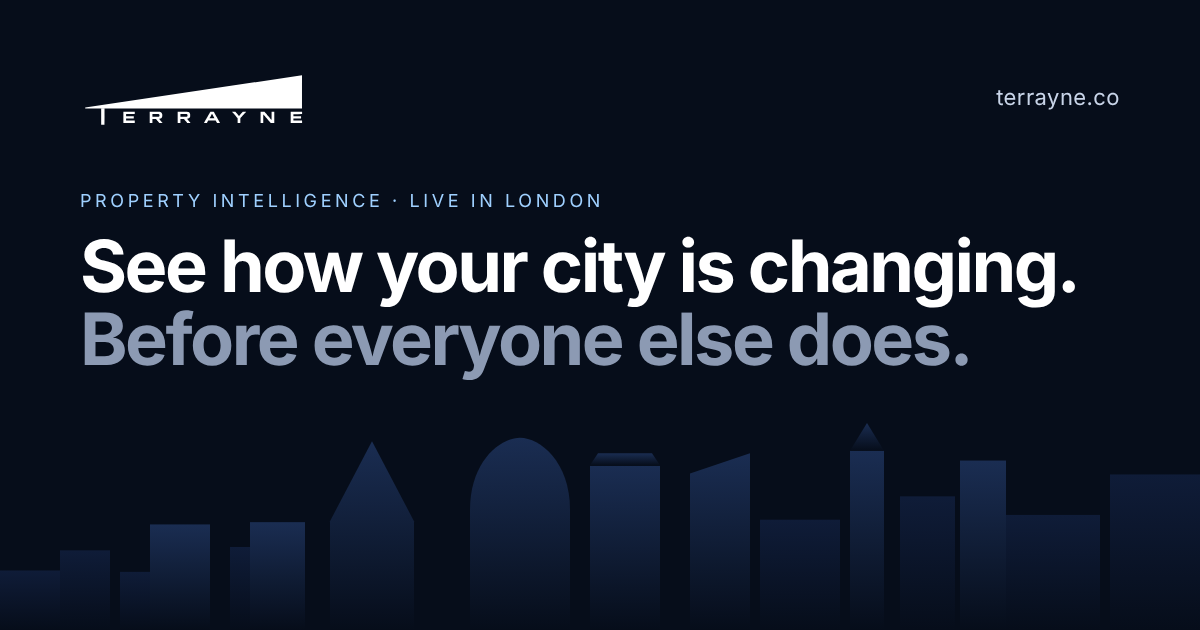
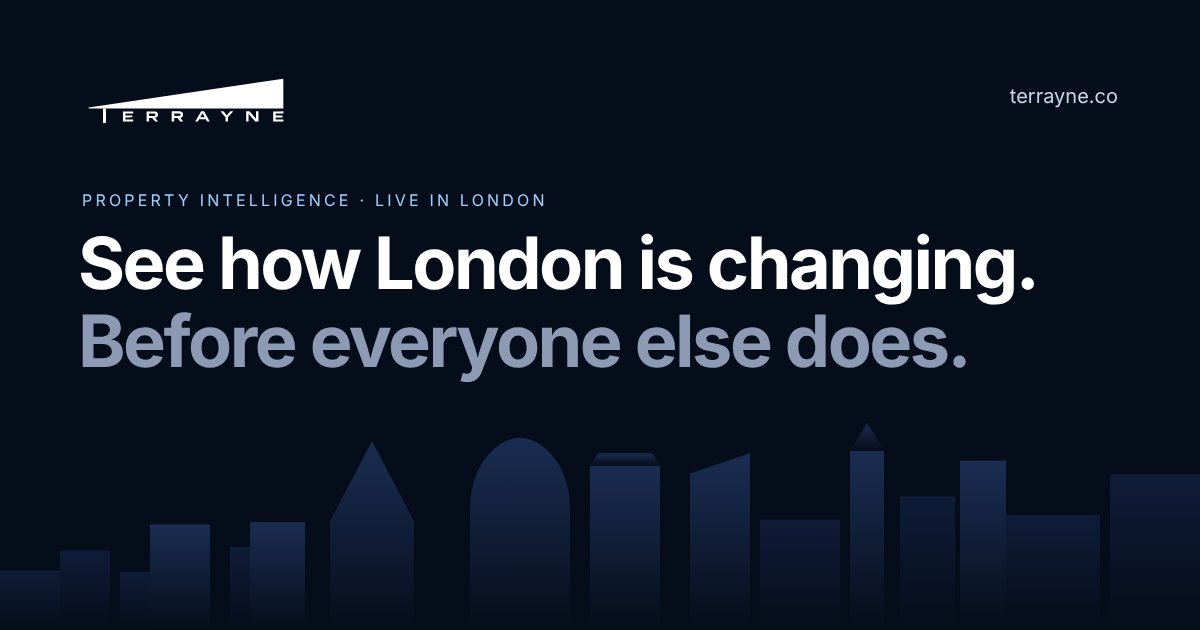
London headline and share image, 'built first for developers and planning consultants', back-test line says it tested the planning part of the index, precise update timing (daily to the Datahub, processed Mondays, ready by 7am)
Claude-Session: https://claude.ai/code/session_017Vwh5vBcia1JFStHP9jJ5J

diff --git a/index.html b/index.html
@@ -7,8 +7,8 @@
 <meta name="referrer" content="strict-origin-when-cross-origin">
 <script>if(window.top!==window.self){try{window.top.location=window.self.location}catch(e){document.documentElement.style.display="none"}}</script>
 <title>Terrayne — Property Intelligence</title>
-<meta property="og:type" content="website"><meta property="og:site_name" content="Terrayne"><meta property="og:title" content="Terrayne — Property Intelligence"><meta property="og:description" content="See how your city is changing, before everyone else does. Check what’s planned around any London postcode, free."><meta property="og:url" content="https://terrayne.co/"><meta property="og:image" content="https://terrayne.co/assets/og.png"><meta property="og:image:width" content="1200"><meta property="og:image:height" content="630"><meta property="og:image:alt" content="Terrayne: see how your city is changing"><meta name="twitter:card" content="summary_large_image"><meta name="twitter:image" content="https://terrayne.co/assets/og.png">
-<meta name="description" content="See how your city is changing, before everyone else does. Terrayne turns London planning applications, station use, population and sale prices into one clear answer for any street. Check any postcode free.">
+<meta property="og:type" content="website"><meta property="og:site_name" content="Terrayne"><meta property="og:title" content="Terrayne — Property Intelligence"><meta property="og:description" content="See how London is changing, before everyone else does. Check what’s planned around any London postcode, free."><meta property="og:url" content="https://terrayne.co/"><meta property="og:image" content="https://terrayne.co/assets/og.png"><meta property="og:image:width" content="1200"><meta property="og:image:height" content="630"><meta property="og:image:alt" content="Terrayne: see how London is changing"><meta name="twitter:card" content="summary_large_image"><meta name="twitter:image" content="https://terrayne.co/assets/og.png">
+<meta name="description" content="See how London is changing, before everyone else does. Terrayne turns London planning applications, station use, population and sale prices into one clear answer for any street. Check any postcode free.">
 <link rel="icon" href="assets/favicon.svg" type="image/svg+xml">
 <link rel="icon" href="assets/favicon-48.png" sizes="48x48" type="image/png">
 <link rel="apple-touch-icon" href="assets/apple-touch-icon.png">
@@ -478,8 +478,8 @@ html.mapopen{overflow:hidden}
 
 <header class="hero" id="top"><div class="wrap">
 <div class="eyebrow"><span style="white-space:nowrap">Property intelligence</span> · <span style="white-space:nowrap">Live in London</span> · <span style="white-space:nowrap">More UK cities soon</span></div>
-<h1>See how your city is changing. <span>Before everyone else does.</span></h1>
-<p class="lead">Every new home, office conversion and station upgrade is filed in public years before it’s built. Terrayne reads it all, from planning applications to station use, population and sale prices, and turns it into one clear answer for any street: what’s coming, how fast the area is changing, and how local prices compare with the rest of London.</p>
+<h1>See how London is changing. <span>Before everyone else does.</span></h1>
+<p class="lead">Every new home, office conversion and station upgrade is filed in public years before it’s built. Terrayne reads it all, from planning applications to station use, population and sale prices, and turns it into one clear answer for any street: what’s coming, how fast the area is changing, and how local prices compare with the rest of London. Built first for London developers and planning consultants.</p>
 <div class="cta"><a class="btn" href="#check">Check a postcode</a><a class="btn ghost" href="account.html?signup">Start free</a></div>
 </div>
 <svg class="sky" viewBox="0 0 1200 300" preserveAspectRatio="xMidYMax slice" aria-hidden="true">
@@ -532,7 +532,7 @@ html.mapopen{overflow:hidden}
 <div class="eyebrow">The Development Momentum Index</div>
 <div class="cities" id="cities" role="tablist" aria-label="City"><button data-c="london" aria-selected="true">London</button><button data-c="manchester" aria-selected="false">Manchester <small>experimental</small></button></div><p class="note" style="margin:-10px 0 22px;font-size:13px">London first. More UK cities to follow.</p>
 <h2 class="dash-h" style="margin-bottom:18px">One score for how fast a neighbourhood is changing.</h2>
-<p class="sub" style="margin-bottom:34px">A score from 0 to 100 for how fast a neighbourhood is changing, built from seven signals across five official sources: planning filings, station use, population and sale prices. A score of 90 means more momentum than about 90% of London. In a back-test, areas scoring 80+ grew their population <b style="color:#5fd6b8;font-weight:600">+5.3%</b> against +1.6% for areas under 40. <a href="methodology.html" style="text-decoration:underline">How it works</a></p>
+<p class="sub" style="margin-bottom:34px">A score from 0 to 100 for how fast a neighbourhood is changing, built from seven signals across five official sources: planning filings, station use, population and sale prices. A score of 90 means more momentum than about 90% of London. In a historical test of the planning part of the index, the highest-scoring areas (80+) went on to record median population growth of <b style="color:#5fd6b8;font-weight:600">+5.3%</b>, against +1.6% for areas scoring under 40. <a href="methodology.html" style="text-decoration:underline">How it works</a></p>
 <div class="tabs" id="tabs"></div>
 <div class="dash" id="signals">
 <div class="panel mapp"><div class="ph"><div><small class="mono">Spatial intelligence layer</small><h3 id="maph">Greater London: tracked neighbourhoods</h3></div><div class="leg"><span class="lg-grad"><em>Quieter</em><b></b><em>Changing fastest</em></span><span><i style="background:#4f9be8"></i>80+ High</span><span><i style="background:#5fd6b8"></i>70–79 Active</span><span><i style="background:#8c9ab3"></i>&lt;70 Building</span></div></div>
@@ -622,7 +622,7 @@ html.mapopen{overflow:hidden}
 <h2>Good to know.</h2>
 <div class="fqs"><details class="fq"><summary>Is there a free plan?</summary><p>Yes. Anyone can check 3 postcodes a month, see London’s top 10 neighbourhoods and compare them, and preview the planning feed and office-to-home (Class MA) tracker, with no card needed.</p></details>
 <details class="fq"><summary>Is this investment advice?</summary><p>No. Terrayne shows what’s been filed, built and measured in an area, from official sources, so you can do your research faster. Scores describe activity, not future prices or returns. Always do your own checks before buying, building or investing.</p></details>
-<details class="fq"><summary>Can I cancel any time?</summary><p>Yes, in a couple of clicks from your account. You keep access until the end of the month or year you’ve paid for, and you won’t be charged again.</p></details><details class="fq"><summary>Where does the data come from?</summary><p>Only official open data: planning applications from the GLA’s Planning London Datahub, station use from TfL and the Office of Rail and Road, population from the ONS, and sale prices from HM Land Registry. <a href="methodology.html">See exactly how the score works</a>.</p></details><details class="fq"><summary>How up to date is it?</summary><p>Planning applications are refreshed every Monday. Station use, population and sale prices update when the government publishes them, which is monthly to yearly. The Index, postcode checks, reports and the planning feed all show when their data was last updated.</p></details><details class="fq"><summary>Which areas are covered?</summary><p>All of Greater London, which is where Terrayne is focused. Greater Manchester is available as an experimental beta with its own method, and more UK cities will follow once London is right.</p></details><details class="fq"><summary>What’s in the £12 Postcode Report?</summary><p>Everything planned within a 5, 10 or 20-minute walk of the postcode, with council references; how many homes and new residents that means; the area’s Momentum score and price headroom; and a short summary of demand, risks and the local market, as a downloadable PDF. <a href="report.html?pc=CR0%201LF&amp;r=800&amp;sample=1">See a sample</a>.</p></details><details class="fq"><summary>Can my team share an account?</summary><p>Each person needs their own login. Team covers up to 5 people with a shared watchlist and team alerts. <a href="mailto:hello@terrayne.co?subject=Terrayne%20for%20larger%20teams">Talk to us</a> for larger teams.</p></details><details class="fq"><summary>Is my payment secure?</summary><p>Payments are handled by Stripe, and Terrayne never sees or stores your card details.</p></details></div>
+<details class="fq"><summary>Can I cancel any time?</summary><p>Yes, in a couple of clicks from your account. You keep access until the end of the month or year you’ve paid for, and you won’t be charged again.</p></details><details class="fq"><summary>Where does the data come from?</summary><p>Only official open data: planning applications from the GLA’s Planning London Datahub, station use from TfL and the Office of Rail and Road, population from the ONS, and sale prices from HM Land Registry. <a href="methodology.html">See exactly how the score works</a>.</p></details><details class="fq"><summary>How up to date is it?</summary><p>Councils add planning applications to the GLA’s Planning London Datahub every day. Terrayne collects and processes them early every Monday, and the new scores, planning feed and Monday brief are ready by 7am UK time. Station use, population and sale prices update when the government publishes them, which is monthly to yearly. The Index, postcode checks, reports and the planning feed all show when their data was last updated.</p></details><details class="fq"><summary>Which areas are covered?</summary><p>All of Greater London, which is where Terrayne is focused. Greater Manchester is available as an experimental beta with its own method, and more UK cities will follow once London is right.</p></details><details class="fq"><summary>What’s in the £12 Postcode Report?</summary><p>Everything planned within a 5, 10 or 20-minute walk of the postcode, with council references; how many homes and new residents that means; the area’s Momentum score and price headroom; and a short summary of demand, risks and the local market, as a downloadable PDF. <a href="report.html?pc=CR0%201LF&amp;r=800&amp;sample=1">See a sample</a>.</p></details><details class="fq"><summary>Can my team share an account?</summary><p>Each person needs their own login. Team covers up to 5 people with a shared watchlist and team alerts. <a href="mailto:hello@terrayne.co?subject=Terrayne%20for%20larger%20teams">Talk to us</a> for larger teams.</p></details><details class="fq"><summary>Is my payment secure?</summary><p>Payments are handled by Stripe, and Terrayne never sees or stores your card details.</p></details></div>
 <p class="note" style="margin-top:22px">Anything else? Email <a href="mailto:hello@terrayne.co" style="color:#9fd0ff">hello@terrayne.co</a>.</p>
 </div></section>
 

diff --git a/methodology.html b/methodology.html
@@ -8,7 +8,7 @@
 <script>if(window.top!==window.self){try{window.top.location=window.self.location}catch(e){document.documentElement.style.display="none"}}</script>
 <title>Methodology — Terrayne</title>
 <meta name="description" content="Seven signals from five official sources, published weights and an open back-test.">
-<meta property="og:type" content="website"><meta property="og:site_name" content="Terrayne"><meta property="og:title" content="How the Terrayne Momentum Index works"><meta property="og:description" content="Seven signals from five official sources, published weights and an open back-test."><meta property="og:url" content="https://terrayne.co/methodology.html"><meta property="og:image" content="https://terrayne.co/assets/og.png"><meta property="og:image:width" content="1200"><meta property="og:image:height" content="630"><meta property="og:image:alt" content="Terrayne: see how your city is changing"><meta name="twitter:card" content="summary_large_image"><meta name="twitter:image" content="https://terrayne.co/assets/og.png">
+<meta property="og:type" content="website"><meta property="og:site_name" content="Terrayne"><meta property="og:title" content="How the Terrayne Momentum Index works"><meta property="og:description" content="Seven signals from five official sources, published weights and an open back-test."><meta property="og:url" content="https://terrayne.co/methodology.html"><meta property="og:image" content="https://terrayne.co/assets/og.png"><meta property="og:image:width" content="1200"><meta property="og:image:height" content="630"><meta property="og:image:alt" content="Terrayne: see how London is changing"><meta name="twitter:card" content="summary_large_image"><meta name="twitter:image" content="https://terrayne.co/assets/og.png">
 <link rel="icon" href="assets/favicon.svg" type="image/svg+xml">
 <link rel="icon" href="assets/favicon-48.png" sizes="48x48" type="image/png">
 <link rel="apple-touch-icon" href="assets/apple-touch-icon.png">
@@ -426,8 +426,8 @@ footer .fl{align-items:center}footer .fl a.tmark{color:#fff}.tmark{display:inlin
 <div class="card"><h3>What goes in</h3><p style="color:#c8d4e8;font-size:14.5px">Seven signals, each scored 0–100 as a percentile against every same-sized area of London (about 9 km²):</p>
 <div class="wt"><div><span>Planning activity</span><b>15%</b></div><div><span>New-homes pipeline</span><b>20%</b></div><div><span>Office-to-home (Class MA)</span><b>10%</b></div><div><span>Commercial floorspace</span><b>10%</b></div><div><span>Station use (TfL, ORR)</span><b>15%</b></div><div><span>Population (ONS)</span><b>15%</b></div><div><span>Resale prices (Land Registry)</span><b>15%</b></div></div></div>
 <div class="card"><h3>Price headroom</h3><p style="color:#c8d4e8;font-size:14.5px">Shown next to the score, not inside it. It’s the share of London areas where the typical home sells for more than here: 80 means cheaper than 80% of London. High momentum with high headroom means an area is changing while homes there still cost less than in much of London. It isn’t a prediction of price growth.</p></div>
-<div class="card"><h3>How often it updates</h3><p style="color:#c8d4e8;font-size:14.5px">Every Monday morning. Each source updates on its own timetable:</p>
-<div class="wt"><div><span>Planning applications</span><b>daily</b></div><div><span>Land Registry sales (about 6 weeks behind)</span><b>monthly</b></div><div><span>TfL and ORR station counts</span><b>yearly</b></div><div><span>ONS population</span><b>yearly</b></div></div></div>
+<div class="card"><h3>How often it updates</h3><p style="color:#c8d4e8;font-size:14.5px">Terrayne collects and processes every source early each Monday, and new scores, the planning feed and the Monday brief are ready by 7am UK time. The sources themselves publish on their own timetables:</p>
+<div class="wt"><div><span>Planning applications (councils to the GLA Datahub)</span><b>daily</b></div><div><span>Land Registry sales (about 6 weeks behind)</span><b>monthly</b></div><div><span>TfL and ORR station counts</span><b>yearly</b></div><div><span>ONS population</span><b>yearly</b></div></div></div>
 </div>
 <div class="panel" id="direction" style="margin-top:18px;scroll-margin-top:100px"><small class="mono" style="color:var(--mute);font-size:11px">DIRECTION OF TRAVEL</small><h3 style="font-size:22px;margin:10px 0 8px;letter-spacing:-.01em">Not just where an area is, but which way it’s heading.</h3>
 <p style="color:#c8d4e8;font-size:14.5px;max-width:760px">An area scoring 76 and climbing can matter more than one scoring 82 that hasn’t moved. So every score shows its change over 30 days and 12 months, and each signal shows whether it’s <b style="color:#5fd6b8">↑ rising</b>, <b style="color:#8c9ab3">→ stable</b> or <b style="color:#e98b8b">↓ falling</b>.</p>

diff --git a/planning.html b/planning.html
@@ -8,7 +8,7 @@
 <script>if(window.top!==window.self){try{window.top.location=window.self.location}catch(e){document.documentElement.style.display="none"}}</script>
 <title>Planning tracker — Terrayne</title>
 <meta name="description" content="Office-to-home (Class MA) approval rates across London’s boroughs, and the latest significant planning applications in plain English.">
-<meta property="og:type" content="website"><meta property="og:site_name" content="Terrayne"><meta property="og:title" content="Planning tracker — Terrayne"><meta property="og:description" content="Office-to-home (Class MA) approval rates across London’s boroughs, and the latest significant planning applications in plain English."><meta property="og:url" content="https://terrayne.co/planning.html"><meta property="og:image" content="https://terrayne.co/assets/og.png"><meta property="og:image:width" content="1200"><meta property="og:image:height" content="630"><meta property="og:image:alt" content="Terrayne: see how your city is changing"><meta name="twitter:card" content="summary_large_image"><meta name="twitter:image" content="https://terrayne.co/assets/og.png">
+<meta property="og:type" content="website"><meta property="og:site_name" content="Terrayne"><meta property="og:title" content="Planning tracker — Terrayne"><meta property="og:description" content="Office-to-home (Class MA) approval rates across London’s boroughs, and the latest significant planning applications in plain English."><meta property="og:url" content="https://terrayne.co/planning.html"><meta property="og:image" content="https://terrayne.co/assets/og.png"><meta property="og:image:width" content="1200"><meta property="og:image:height" content="630"><meta property="og:image:alt" content="Terrayne: see how London is changing"><meta name="twitter:card" content="summary_large_image"><meta name="twitter:image" content="https://terrayne.co/assets/og.png">
 <link rel="icon" href="assets/favicon.svg" type="image/svg+xml">
 <link rel="icon" href="assets/favicon-48.png" sizes="48x48" type="image/png">
 <link rel="apple-touch-icon" href="assets/apple-touch-icon.png">
@@ -451,7 +451,7 @@ footer .fl{align-items:center}footer .fl a.tmark{color:#fff}.tmark{display:inlin
 <div class="tw"><table><thead><tr class="mono"><th>Borough</th><th>Site / corridor</th><th>Signal type</th><th>Net units / scale</th><th>Status</th><th>What it is, and why it matters</th></tr></thead><tbody id="rows"></tbody></table></div>
 <p style="text-align:center;margin:18px 0 0"><button id="fmore" class="fp" hidden onclick="FN=1e9;feed()">Show all filings</button><a id="fpro" class="fp" hidden href="./#pricing" style="text-decoration:none">See the full feed with Pro →</a></p>
 <p style="margin:18px 0 0"><a class="btn ghost" href="./#pricing">Get new filings in your areas every Monday</a></p>
-<p class="note" style="margin-top:14px">The latest significant applications from the GLA <a href="https://www.london.gov.uk/programmes-strategies/planning/digital-planning/planning-london-datahub" target="_blank" rel="noopener" style="text-decoration:underline">Planning London Datahub</a> (last two months), updated every Monday. Last update: <span id="feedupd">…</span>. Summaries and “why it matters” are built only from each application’s own figures, the local Momentum score and borough decision data; statuses can change, so check the council’s planning register by reference for the latest.</p>
+<p class="note" style="margin-top:14px">The latest significant applications from the GLA <a href="https://www.london.gov.uk/programmes-strategies/planning/digital-planning/planning-london-datahub" target="_blank" rel="noopener" style="text-decoration:underline">Planning London Datahub</a> (last two months), collected and processed every Monday by 7am UK time. Last update: <span id="feedupd">…</span>. Summaries and “why it matters” are built only from each application’s own figures, the local Momentum score and borough decision data; statuses can change, so check the council’s planning register by reference for the latest.</p>
 </div></section>
 
 <footer><div class="wrap"><span>© 2026 Terrayne. Property intelligence.</span><span class="fl"><a href="about.html">About</a><a href="planning.html">Planning tracker</a><a href="methodology.html">Methodology</a><a href="terms.html">Terms</a><a href="privacy.html">Privacy</a><a class="tmark" href="#" aria-label="Back to top"><svg viewBox="0 0 270 143" aria-hidden="true"><path d="M0 40L270 0V46H0Z" fill="currentColor"/><rect x="96" y="45" width="20" height="98" fill="currentColor"/></svg></a></span></div></footer>

diff --git a/about.html b/about.html
@@ -8,7 +8,7 @@
 <script>if(window.top!==window.self){try{window.top.location=window.self.location}catch(e){document.documentElement.style.display="none"}}</script>
 <title>About — Terrayne</title>
 <meta name="description" content="Plain-English property intelligence for London, built only from official open data.">
-<meta property="og:type" content="website"><meta property="og:site_name" content="Terrayne"><meta property="og:title" content="About Terrayne"><meta property="og:description" content="Plain-English property intelligence for London, built only from official open data."><meta property="og:url" content="https://terrayne.co/about.html"><meta property="og:image" content="https://terrayne.co/assets/og.png"><meta property="og:image:width" content="1200"><meta property="og:image:height" content="630"><meta property="og:image:alt" content="Terrayne: see how your city is changing"><meta name="twitter:card" content="summary_large_image"><meta name="twitter:image" content="https://terrayne.co/assets/og.png">
+<meta property="og:type" content="website"><meta property="og:site_name" content="Terrayne"><meta property="og:title" content="About Terrayne"><meta property="og:description" content="Plain-English property intelligence for London, built only from official open data."><meta property="og:url" content="https://terrayne.co/about.html"><meta property="og:image" content="https://terrayne.co/assets/og.png"><meta property="og:image:width" content="1200"><meta property="og:image:height" content="630"><meta property="og:image:alt" content="Terrayne: see how London is changing"><meta name="twitter:card" content="summary_large_image"><meta name="twitter:image" content="https://terrayne.co/assets/og.png">
 <link rel="icon" href="assets/favicon.svg" type="image/svg+xml">
 <link rel="icon" href="assets/favicon-48.png" sizes="48x48" type="image/png">
 <link rel="apple-touch-icon" href="assets/apple-touch-icon.png">

diff --git a/report.html b/report.html
@@ -8,7 +8,7 @@
 <script>if(window.top!==window.self){try{window.top.location=window.self.location}catch(e){document.documentElement.style.display="none"}}</script>
 <title>Postcode Report · Terrayne</title>
 <meta name="description" content="Everything planned within walking distance of any London postcode, as a downloadable report.">
-<meta property="og:type" content="website"><meta property="og:site_name" content="Terrayne"><meta property="og:title" content="Postcode Report — Terrayne"><meta property="og:description" content="Everything planned within walking distance of any London postcode, as a downloadable report."><meta property="og:url" content="https://terrayne.co/report.html"><meta property="og:image" content="https://terrayne.co/assets/og.png"><meta property="og:image:width" content="1200"><meta property="og:image:height" content="630"><meta property="og:image:alt" content="Terrayne: see how your city is changing"><meta name="twitter:card" content="summary_large_image"><meta name="twitter:image" content="https://terrayne.co/assets/og.png">
+<meta property="og:type" content="website"><meta property="og:site_name" content="Terrayne"><meta property="og:title" content="Postcode Report — Terrayne"><meta property="og:description" content="Everything planned within walking distance of any London postcode, as a downloadable report."><meta property="og:url" content="https://terrayne.co/report.html"><meta property="og:image" content="https://terrayne.co/assets/og.png"><meta property="og:image:width" content="1200"><meta property="og:image:height" content="630"><meta property="og:image:alt" content="Terrayne: see how London is changing"><meta name="twitter:card" content="summary_large_image"><meta name="twitter:image" content="https://terrayne.co/assets/og.png">
 <meta name="robots" content="noindex">
 <link rel="icon" href="assets/favicon.svg" type="image/svg+xml">
 <style>
